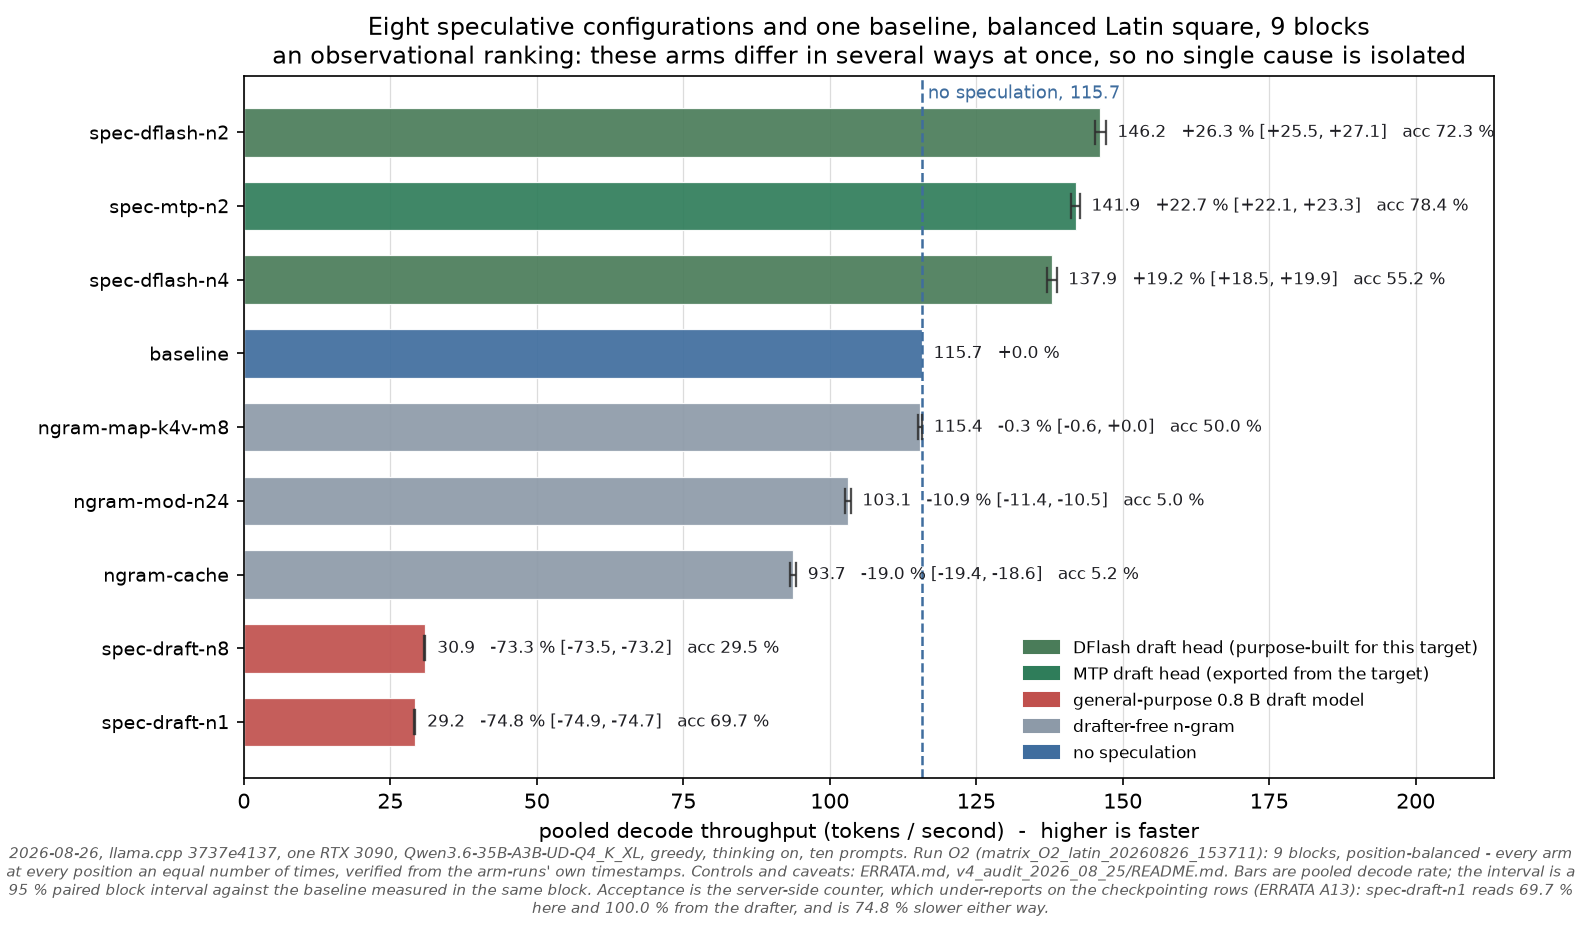
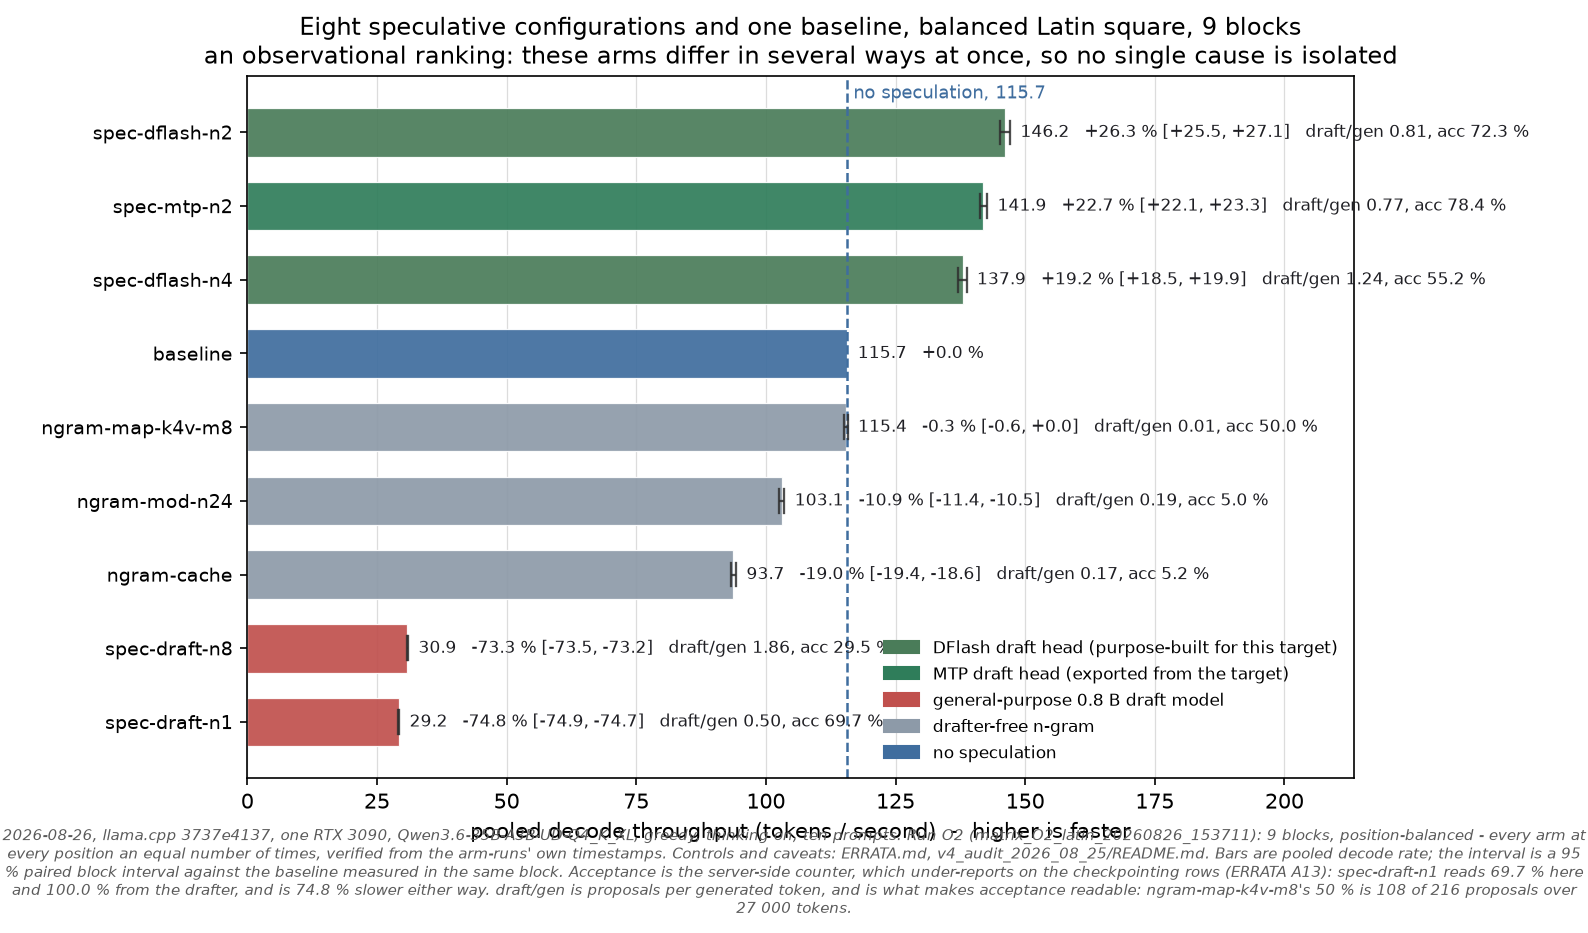
audit: the chart carries draft/gen too, and the checker cross-checks it against the table
The bar labels showed acceptance without proposal volume, the same reading
problem the table had. Each bar now reads 'draft/gen X.XX, acc YY %', the footer
says what that means with ngram-map-k4v-m8's 108 of 216 as the example, and
verify_claims compares the chart's own numbers against its independently
computed ones - including which run directory the chart plotted.

diff --git a/analysis/plot_v4_runs.py b/analysis/plot_v4_runs.py
@@ -445,16 +445,21 @@ def plot_head_to_head() -> None:
     for a, runs in arms.items():
         dn = sum(x["draft_n"] for r in runs for x in r["rows"])
         da = sum(x["draft_n_accepted"] for r in runs for x in r["rows"])
-        rows.append((a, pooled(runs), (100*da/dn) if dn else None, fam(a)))
+        ng = sum(x["predicted_n"] for r in runs for x in r["rows"])
+        # draft tokens proposed per token generated. Without it the acceptance
+        # figure reads as success for an arm that hardly ever drafts:
+        # ngram-map-k4v-m8 shows 50 % from 216 proposals over 27 000 tokens.
+        rows.append((a, pooled(runs), (100*da/dn) if dn else None, fam(a),
+                     (dn / ng) if ng else None))
     record("head_to_head", run=run.name, position_balanced=balanced,
-           rows=[{"arm": a, "pooled": pl,
-                 "acceptance_pct": ac, "family": fm}
-                for a, pl, ac, fm in rows])
+           rows=[{"arm": a, "pooled": pl, "acceptance_pct": ac,
+                  "draft_per_generated": dg, "family": fm}
+                 for a, pl, ac, fm, dg in rows])
     rows.sort(key=lambda r: r[1])
 
     fig, ax = plt.subplots(figsize=(10.4, 6.2))
     y = range(len(rows))
-    for i, (a, p_, acc, f) in enumerate(rows):
+    for i, (a, p_, acc, f, dpg) in enumerate(rows):
         ax.barh(i, p_, height=0.66, color=FAMILY[f][1], alpha=0.92,
                 edgecolor="white", linewidth=0.6)
         d = 100*(p_/base - 1)
@@ -471,7 +476,8 @@ def plot_head_to_head() -> None:
             dtxt = f"{c['point_pct']:+.1f} % [{lo:+.1f}, {hi:+.1f}]"
         else:
             dtxt = f"{d:+.1f} %"
-        lbl = f"{p_:.1f}   {dtxt}" + (f"   acc {acc:.1f} %" if acc is not None else "")
+        lbl = f"{p_:.1f}   {dtxt}" + (
+            f"   draft/gen {dpg:.2f}, acc {acc:.1f} %" if acc is not None else "")
         ax.text(max(p_, x_hi if c else p_) + 2.0, i, lbl, va="center", ha="left",
                 fontsize=8.4, color="#1f1f24")
     ax.set_yticks(list(y))
@@ -505,7 +511,9 @@ def plot_head_to_head() -> None:
                   "interval against the baseline measured in the same block. Acceptance "
                   "is the server-side counter, which under-reports on the checkpointing "
                   "rows (ERRATA A13): spec-draft-n1 reads 69.7 % here and 100.0 % from "
-                  "the drafter, and is 74.8 % slower either way.")
+                  "the drafter, and is 74.8 % slower either way. draft/gen is proposals "
+                  "per generated token, and is what makes acceptance readable: "
+                  "ngram-map-k4v-m8's 50 % is 108 of 216 proposals over 27 000 tokens.")
     if not CHECK:  # --check verifies the numbers, it must not dirty the tree
         plt.savefig(OUT / "plot_head_to_head.png", dpi=150, bbox_inches="tight")
     plt.close()

diff --git a/analysis/verify_claims.py b/analysis/verify_claims.py
@@ -1382,6 +1382,14 @@ chk("of which this many were accepted", _dg["ngram-map-k4v-m8"][1], 108)
 chk("out of this many generated", _dg["ngram-map-k4v-m8"][2], 27000)
 chk("README says how little it drafts", "216 tokens across 27 000" in _rmd, True)
 chk("the baseline drafts nothing", _dg["baseline"][0], 0)
+_hh = {r["arm"]: r for r in json.load(open("analysis/plot_data.json"))["head_to_head"]["rows"]}
+chk("the chart carries the same draft/gen as the table",
+    sorted(a for a, v in _hh.items()
+           if v.get("draft_per_generated") is not None
+           and round(v["draft_per_generated"], 2) != round(_dg[a][0] / _dg[a][2], 2)), [])
+chk("the chart plots the run the README documents",
+    json.load(open("analysis/plot_data.json"))["head_to_head"]["run"],
+    os.path.basename(_O2))
 
 
 print("\n=== the headline interval column is the t interval, and says so ===")
